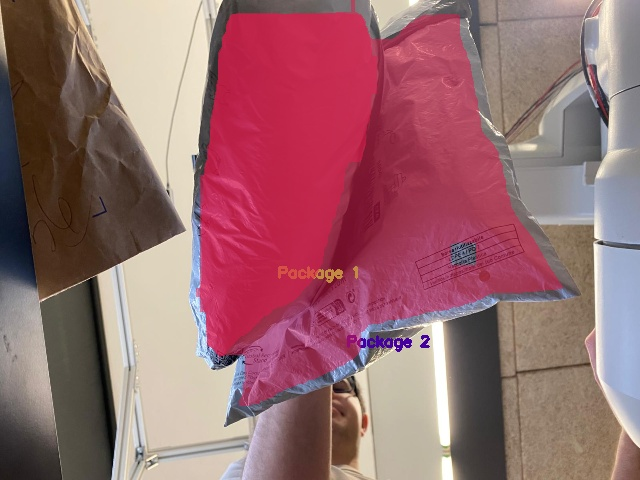
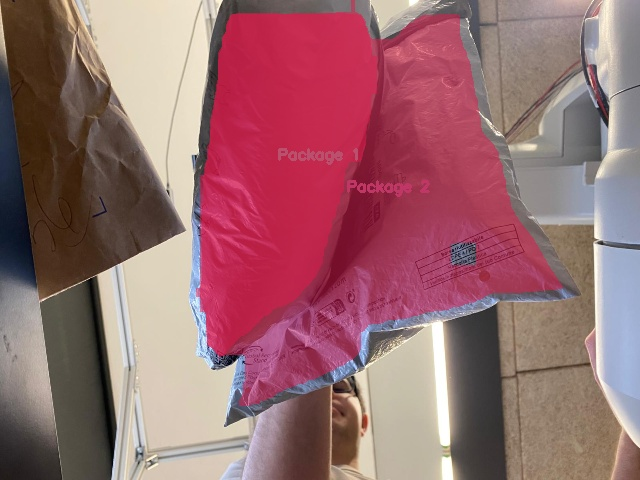
Good. Next - implement idea for fake 3rd packages

diff --git a/DINO_FastSAM.py b/DINO_FastSAM.py
@@ -12,6 +12,7 @@ from typing import List
 
 live = False
 save_images = False
+
 image_cnt = 0
 folder_path = '4_double-packages'
 output_folder = 'out'
@@ -88,6 +89,9 @@ print("Connected to server")
 
 data = b""
 payload_size = struct.calcsize("Q")
+
+if live and save_images:
+    out = cv2.VideoWriter('output.avi', cv2.VideoWriter_fourcc(*'XVID'), 30, (640, 480))
 
 while True:
     if live:
@@ -199,7 +203,7 @@ while True:
                 mask_uint8 = cv2.bitwise_and(mask_uint8, componentMask)
             else:
                 colour = get_random_color()
-                cv2.putText(frame, f"Package {package_no}", (int(centroid[i][0]),  int(centroid[i][0])), cv2.FONT_HERSHEY_SIMPLEX, 0.5, colour, 2) 
+                cv2.putText(frame, f"Package {package_no}", (int(centroid[i][0]),  int(centroid[i][1])), cv2.FONT_HERSHEY_SIMPLEX, 0.5, colour, 2) 
                 package_no+=1
 
         if np.all(mask_uint8 == 0):
@@ -212,6 +216,9 @@ while True:
     annotated_image_filt = mask_annotator.annotate(scene=frame.copy(), detections=detections)
     # annotated_image = box_annotator.annotate(scene=annotated_image, detections=detections, labels=labels)
 
+    if live and save_images:
+        out.write(frame)
+
     cv2.imshow("Orig", annotated_image_orig)
     cv2.imshow("Filtered", annotated_image_filt)
     if cv2.waitKey(1) == ord('q'):
@@ -219,9 +226,12 @@ while True:
             break
         else:
             image_cnt += 1
-            cv2.imwrite(output_path, annotated_image_filt)
+            if save_images:
+                cv2.imwrite(output_path, annotated_image_filt)
             if image_cnt > 11:
                 break
 
+if live and save_images:
+    out.release()
 client_socket.close()
 cv2.destroyAllWindows()

diff --git a/README.md b/README.md
@@ -1,8 +1,3 @@
 # DINO_FastSAM
 DINO with FastSAM for object detection and segmentation.
-
-Using device: cuda
-
-supervision: 0.6.0
-
-torch: 2.1.0+cu121
+Using device: cuda - cu121
